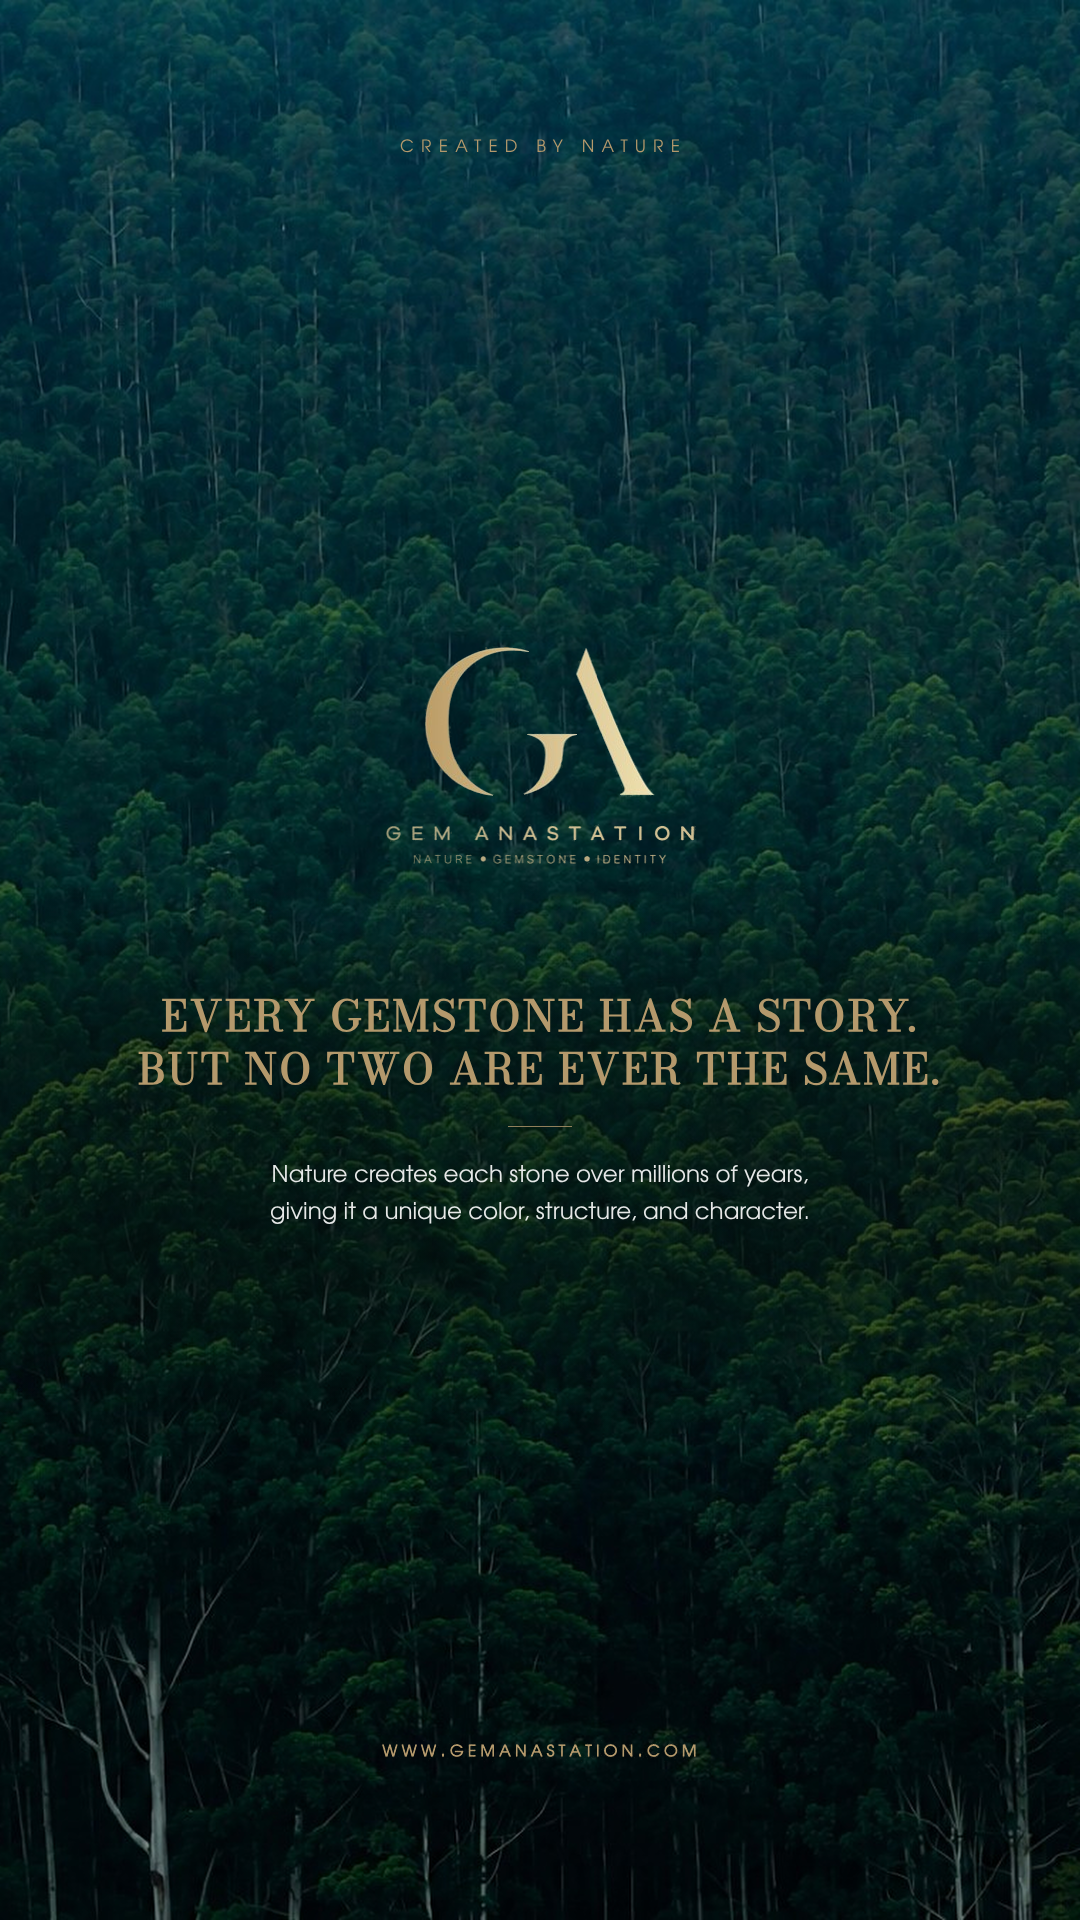
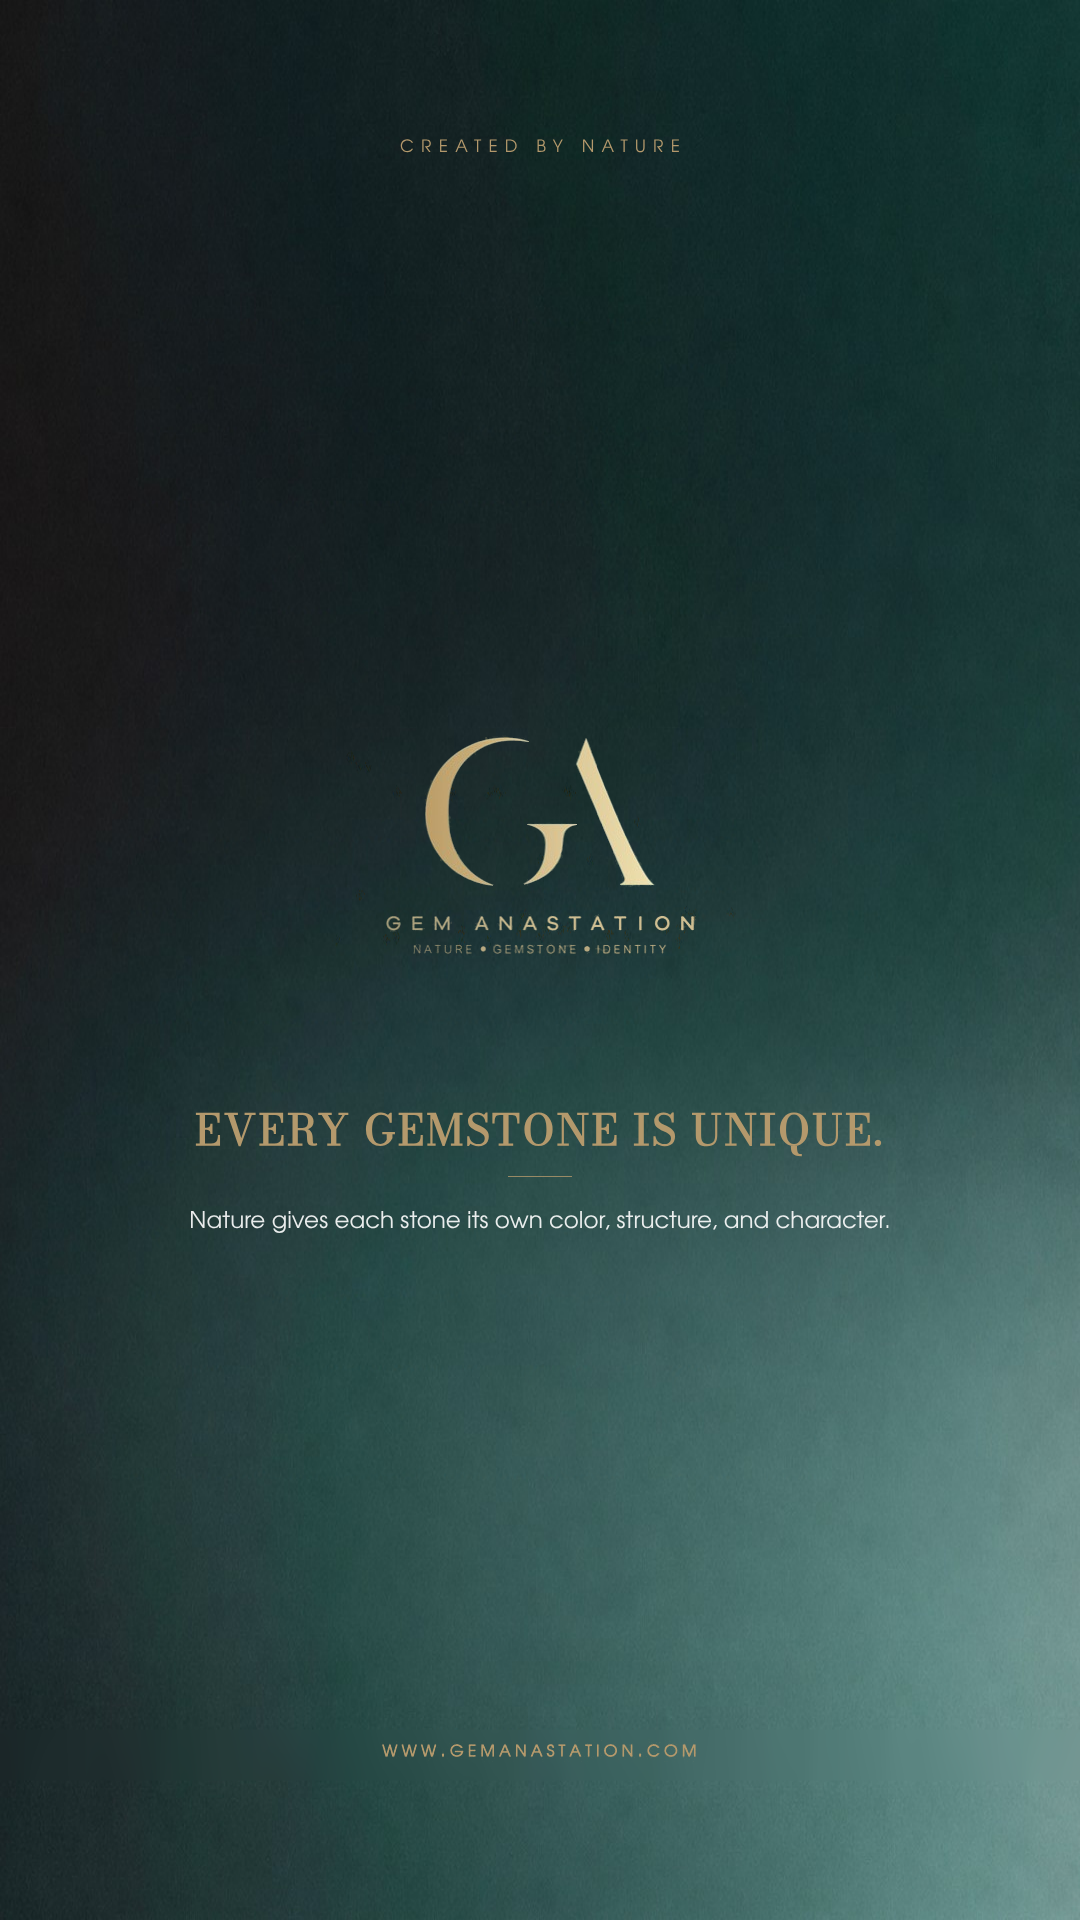
Stories Uniqueness: Story 01 as a minimal cover on the brand gradient
Replaces the forest with the brand gradient, keeps only the cover
structure (rubric, centred original GA logo layers, website line), and
sets the shortened statement and line.

Claude-Session: https://claude.ai/code/session_01DPJpbdE4xE8Jg3JGMEEyZy

diff --git a/gem-anastation-reels/stories_uniqueness/stories.html b/gem-anastation-reels/stories_uniqueness/stories.html
@@ -24,20 +24,15 @@
   .center { left: 0; width: 1080px; text-align: center; }
 
   /* Story 01 */
-  .forest { background: #0b1a14 url(build/story01_base.png) 0 0 / 1080px 1920px no-repeat; }
-  .shade {   /* soft, photographic darkening behind the statement for contrast */
-    position: absolute; left: 0; top: 880px; width: 1080px; height: 560px;
-    background: linear-gradient(to bottom, rgba(4,14,10,0) 0%, rgba(4,14,10,.42) 30%,
-                rgba(4,14,10,.42) 70%, rgba(4,14,10,0) 100%);
-  }
   .statement {
     font-family: "Didot Title"; color: var(--gold); font-size: 42px; line-height: 1.26;
     letter-spacing: .06em; text-transform: uppercase;
   }
   .lead { font-family: "AvantGarde"; font-size: 23px; line-height: 1.6; color: rgba(255,255,255,.9); }
 
-  /* Story 03 */
   .dark { background-size: 1080px 1920px; }
+
+  /* Story 03 */
   .question {
     font-family: "Didot Italic"; font-style: italic; color: var(--gold);
     font-size: 44px; line-height: 1.15; letter-spacing: -.005em;
@@ -47,18 +42,17 @@
 <body>
 <div class="sheet">
 
-<!-- 01 — CREATED BY NATURE -->
-<section class="slide forest" id="s1">
-  <div class="shade"></div>
+<!-- 01 — CREATED BY NATURE: minimal cover on the brand gradient; the
+     structure of the earlier cover (rubric / centred GA logo / website),
+     nothing else from it. Logo layer: tools/logo_layer.py -->
+<section class="slide dark" id="s1">
   <div class="rubric">Created by Nature</div>
+  <img class="abs" src="build/logo_group.png" width="1080" height="1920" style="left:0; top:0" alt="GA — Gem AnaStation">
 
-  <h1 class="abs statement center" style="top:990px">
-    Every gemstone has a story.<br>But no two are ever the same.
-  </h1>
-  <div class="hair" style="left:508px; top:1126px; width:64px"></div>
-  <p class="abs lead center" style="top:1160px">
-    Nature creates each stone over millions of years,<br>
-    giving it a unique color, structure, and character.
+  <h1 class="abs statement center" style="top:1104px">Every gemstone is unique.</h1>
+  <div class="hair" style="left:508px; top:1176px; width:64px"></div>
+  <p class="abs lead center" style="top:1206px">
+    Nature gives each stone its own color, structure, and character.
   </p>
 
   <img class="url" src="build/url_on_dark.png" alt="www.gemanastation.com">

diff --git a/gem-anastation-reels/stories_uniqueness/tools/logo_layer.py b/gem-anastation-reels/stories_uniqueness/tools/logo_layer.py
@@ -1,0 +1,37 @@
+"""Transparent 1080x1920 layer with the ORIGINAL GA monogram, GEM ANASTATION
+wordmark and NATURE • GEMSTONE • IDENTITY descriptor (the same extracted
+layers as the approved reel and Stories, never redrawn), at their approved
+9:16 positions shifted by LOGO_SHIFT. Placed over the brand gradient in HTML.
+
+Usage: python3 tools/logo_layer.py [shift_px]   -> build/logo_group.png
+"""
+import sys
+from pathlib import Path
+
+import cv2
+import numpy as np
+
+HERE = Path(__file__).resolve().parents[1]
+sys.path.insert(0, str(HERE.parent / "tools"))
+from render import LAYOUT_S1, load_rgba   # noqa: E402
+
+SHIFT = int(sys.argv[1]) if len(sys.argv) > 1 else -60
+W, H = 1080, 1920
+rgb = np.zeros((H, W, 3), np.float32)
+alpha = np.zeros((H, W), np.float32)
+for name in ("logo_ga", "wordmark", "descriptor"):
+    x, y = LAYOUT_S1[name]
+    col, a = load_rgba(f"s1_{name}")
+    h, w = a.shape
+    y += SHIFT
+    # "over" compositing of straight-alpha layers
+    A = alpha[y:y + h, x:x + w]
+    out_a = a + A * (1 - a)
+    rgb[y:y + h, x:x + w] = (col * a[..., None] + rgb[y:y + h, x:x + w] * (A * (1 - a))[..., None]) \
+        / np.maximum(out_a, 1e-6)[..., None]
+    alpha[y:y + h, x:x + w] = out_a
+rgba = np.dstack([rgb, alpha])
+out = (np.clip(rgba, 0, 1) * 255 + 0.5).astype(np.uint8)
+(HERE / "build").mkdir(exist_ok=True)
+cv2.imwrite(str(HERE / "build" / "logo_group.png"), cv2.cvtColor(out, cv2.COLOR_RGBA2BGRA))
+print(f"logo_group.png: logo top y = {LAYOUT_S1['logo_ga'][1] + SHIFT}")

diff --git a/gem-anastation-reels/stories_uniqueness/README.md b/gem-anastation-reels/stories_uniqueness/README.md
@@ -4,7 +4,7 @@ Three Stories, 1080 × 1920, G.A. Gemstone Zine.
 
 | File | Story |
 |---|---|
-| `output/GA_Story_01_Nature.png` | Created by Nature — forest, original GA monogram and wordmark |
+| `output/GA_Story_01_Nature.png` | Created by Nature — minimal cover on the brand gradient, original GA monogram and wordmark |
 | `output/GA_Story_02_Expert.png` | Curated by Expert — photo DSCF4197 + ivory text field |
 | `output/GA_Story_03_Connect.png` | You Connect — brand gradient, typographic |
 | `output/GA_Stories_Uniqueness_preview.png` | All three side by side |
@@ -15,6 +15,6 @@ main type above y = 1670. Story 03 has no rubric.
 
 Edit copy and positions in `stories.html` (shared system: `../founder/founder.css`).
 ```
-python3 tools/base_story01.py          # forest + original logo layers
+python3 tools/logo_layer.py            # original GA logo layers, transparent
 NODE_PATH=$(npm root -g) node tools/export.mjs
 ```
